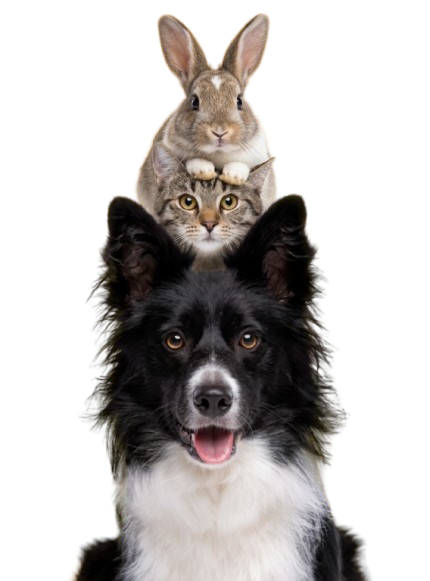
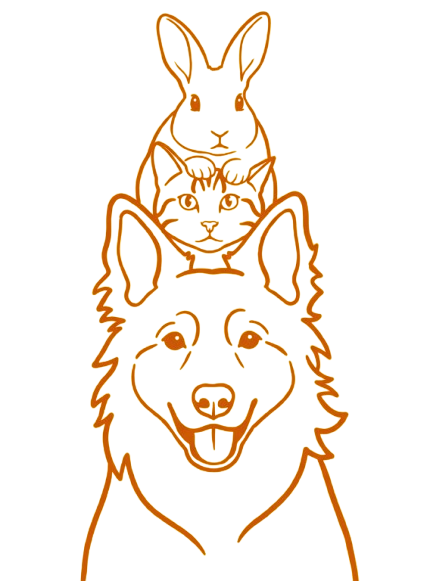
se mejoro la opacidad de la iamgen

diff --git a/src/features/dashboard/pages/DashboardPage.tsx b/src/features/dashboard/pages/DashboardPage.tsx
@@ -47,7 +47,7 @@ export default function DashboardPage() {
       <img
         src="/mascotas-banner.png"
         alt="Mascotas"
-        className="hidden lg:block absolute right-0 bottom-0 h-[330px] w-[250px] object-contain object-bottom pointer-events-none select-none"
+        className="hidden lg:block absolute right-0 bottom-0 h-[340px] w-[260px] object-contain object-bottom pointer-events-none select-none opacity-40"
       />
       <main className="max-w-5xl mx-auto p-6">
         {/* Greeting */}